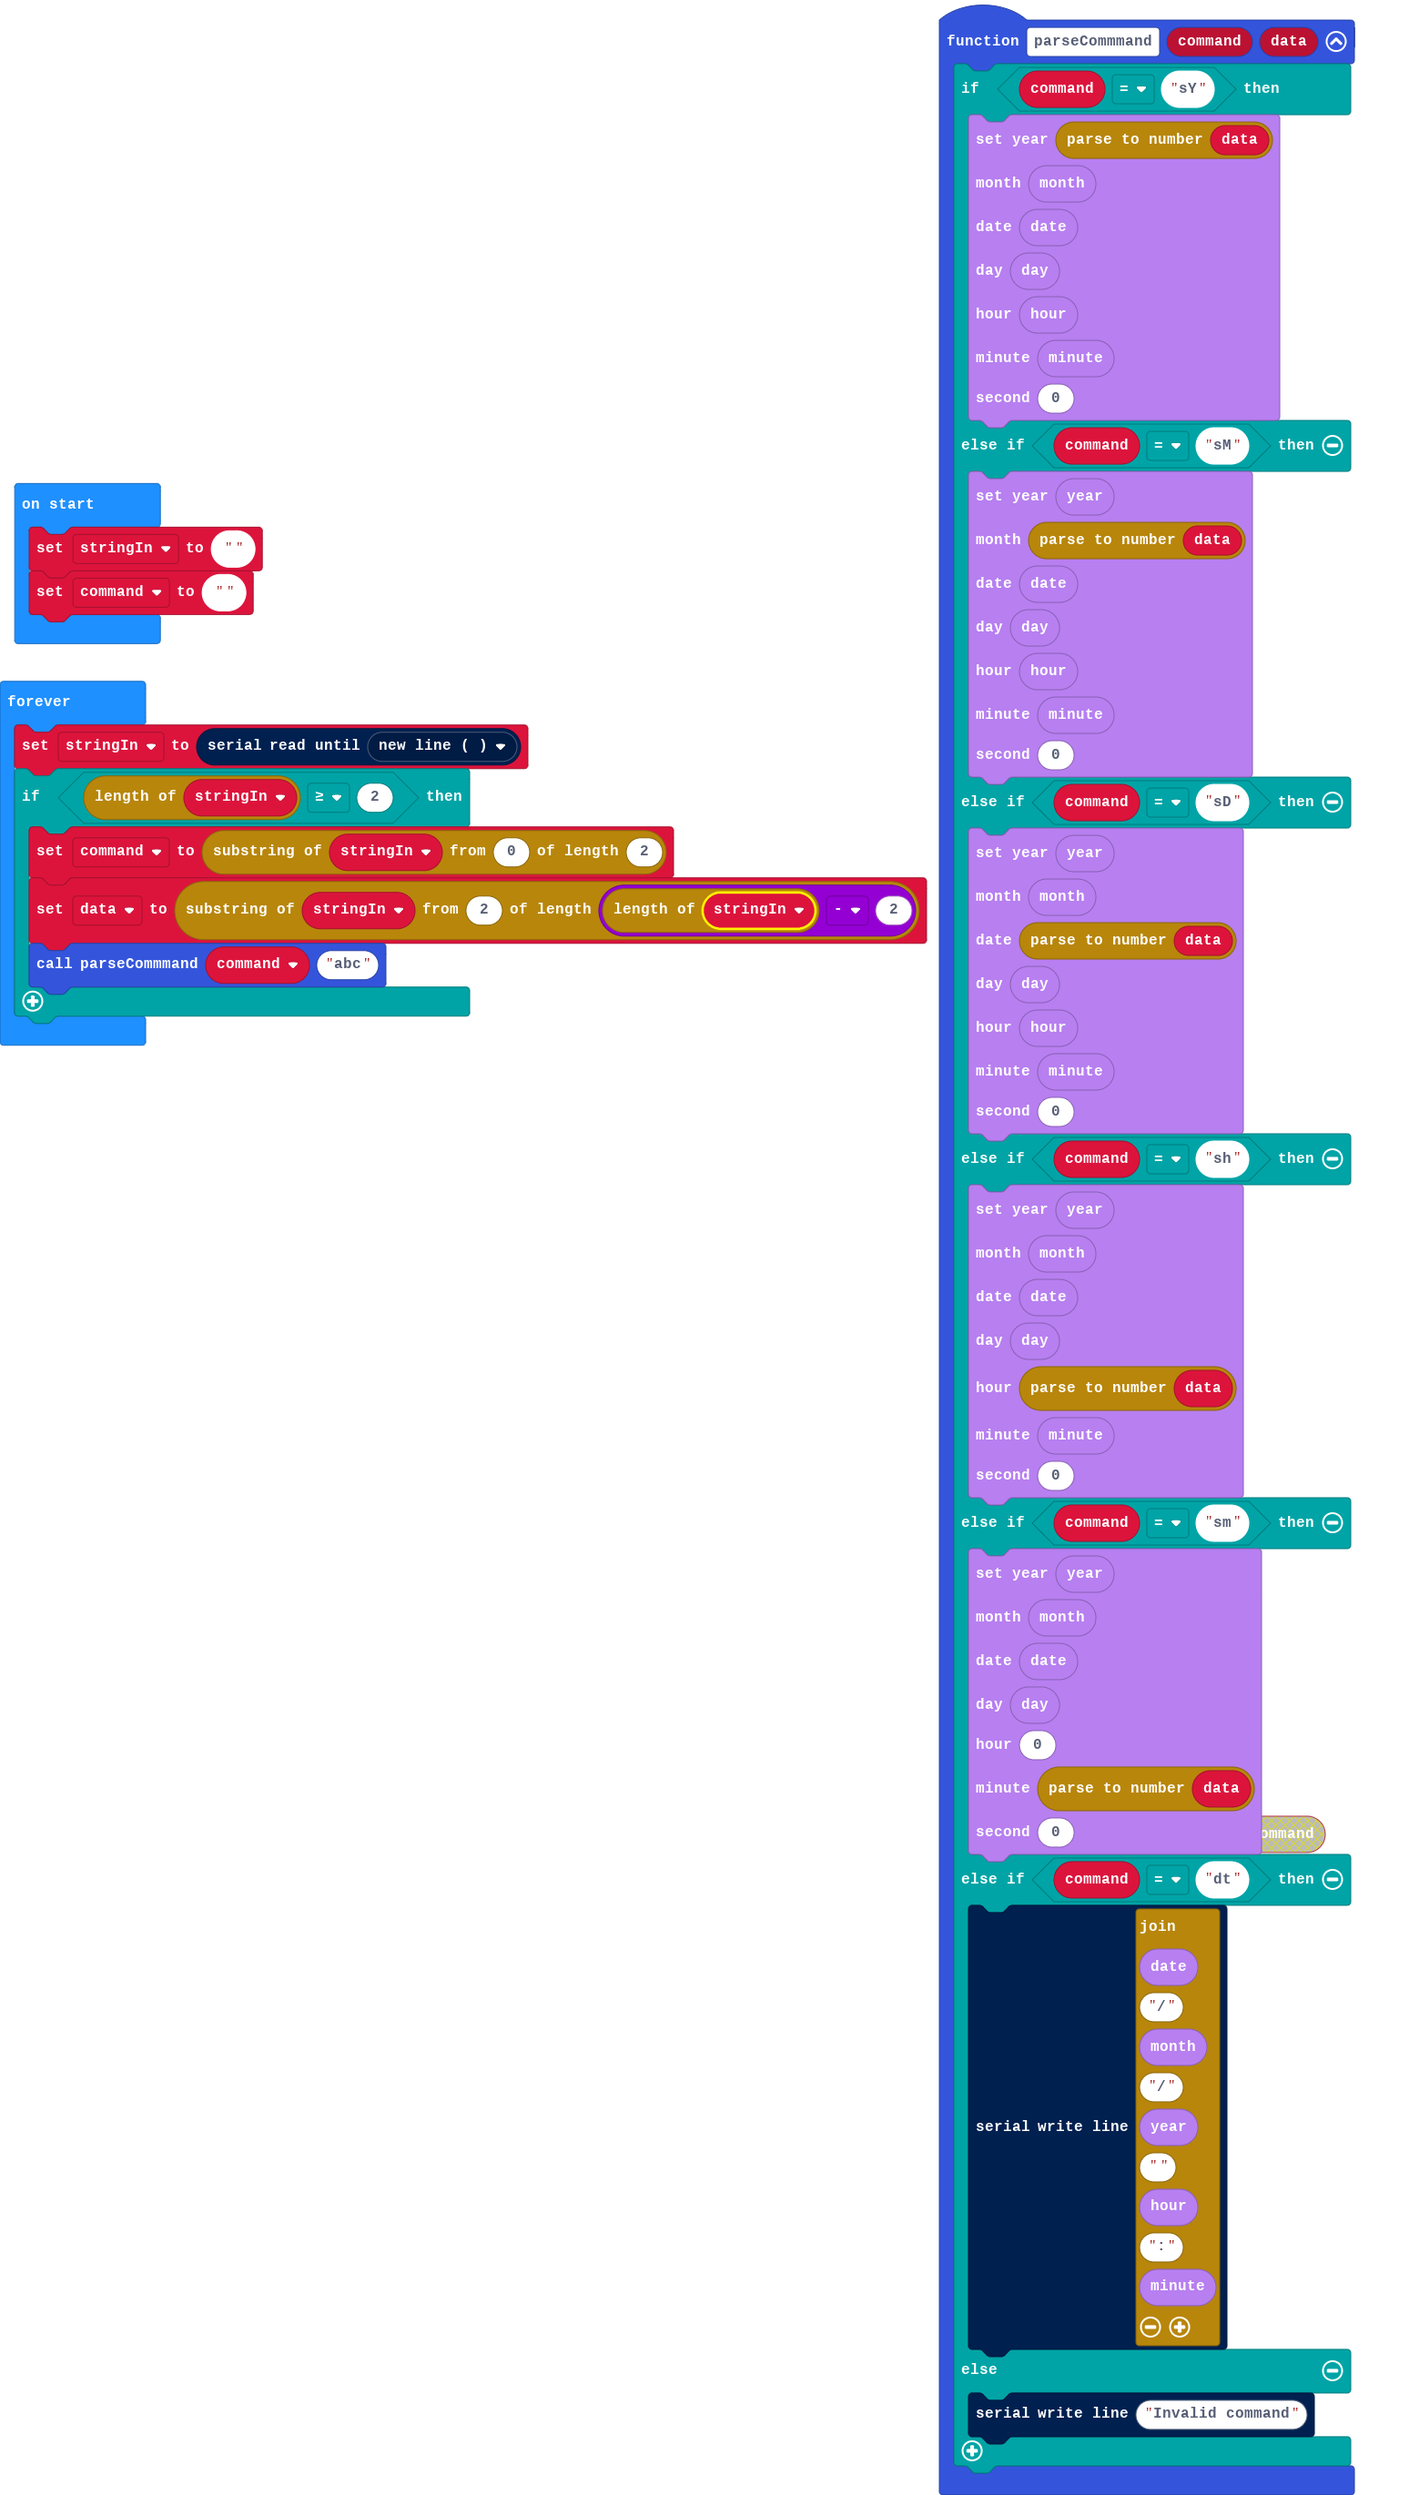
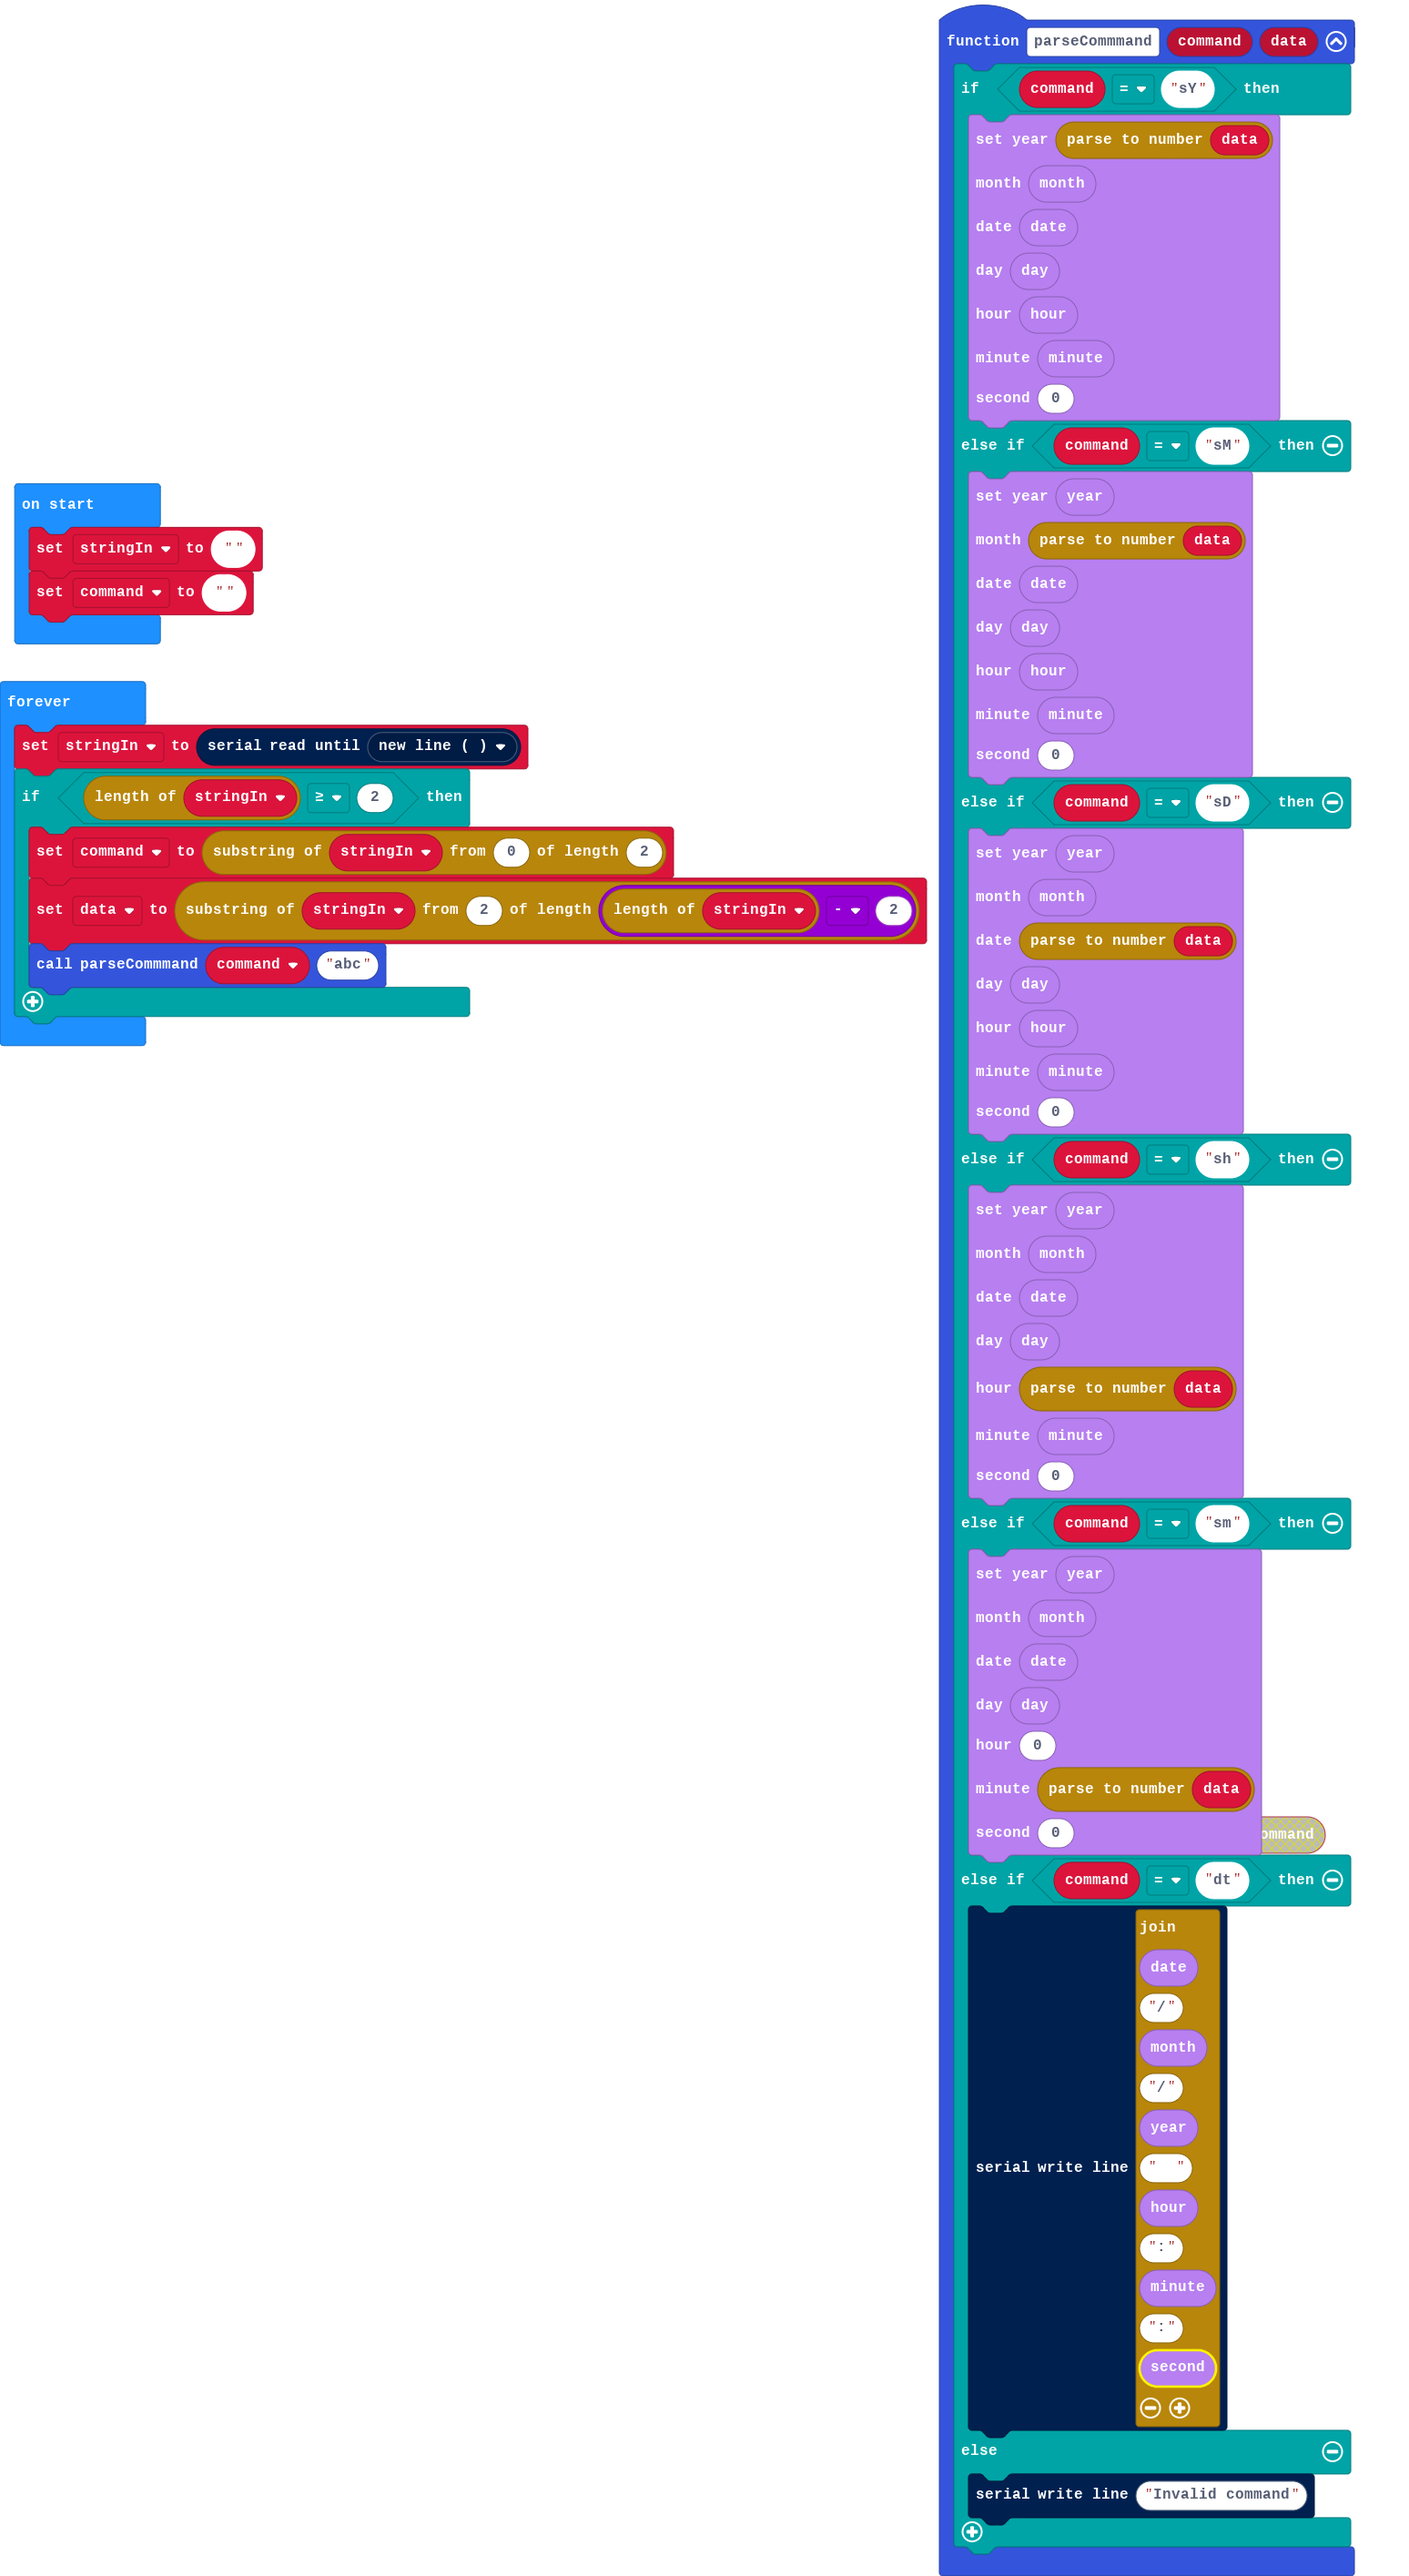
Update main.blocks, main.ts

Changed region(s): [[0.0, 0.0, 0.9612, 0.992], [0.7132, 0.837, 0.7442, 0.868]]

diff --git a/main.ts b/main.ts
@@ -50,7 +50,7 @@ function parseCommmand (command: string, data: string) {
         0
         )
     } else if (command == "dt") {
-        serial.writeLine("" + DS3231.date() + "/" + DS3231.month() + "/" + DS3231.year() + "" + DS3231.hour() + ":" + DS3231.minute())
+        serial.writeLine("" + DS3231.date() + "/" + DS3231.month() + "/" + DS3231.year() + "  " + DS3231.hour() + ":" + DS3231.minute() + ":" + DS3231.second())
     } else {
         serial.writeLine("Invalid command")
     }
